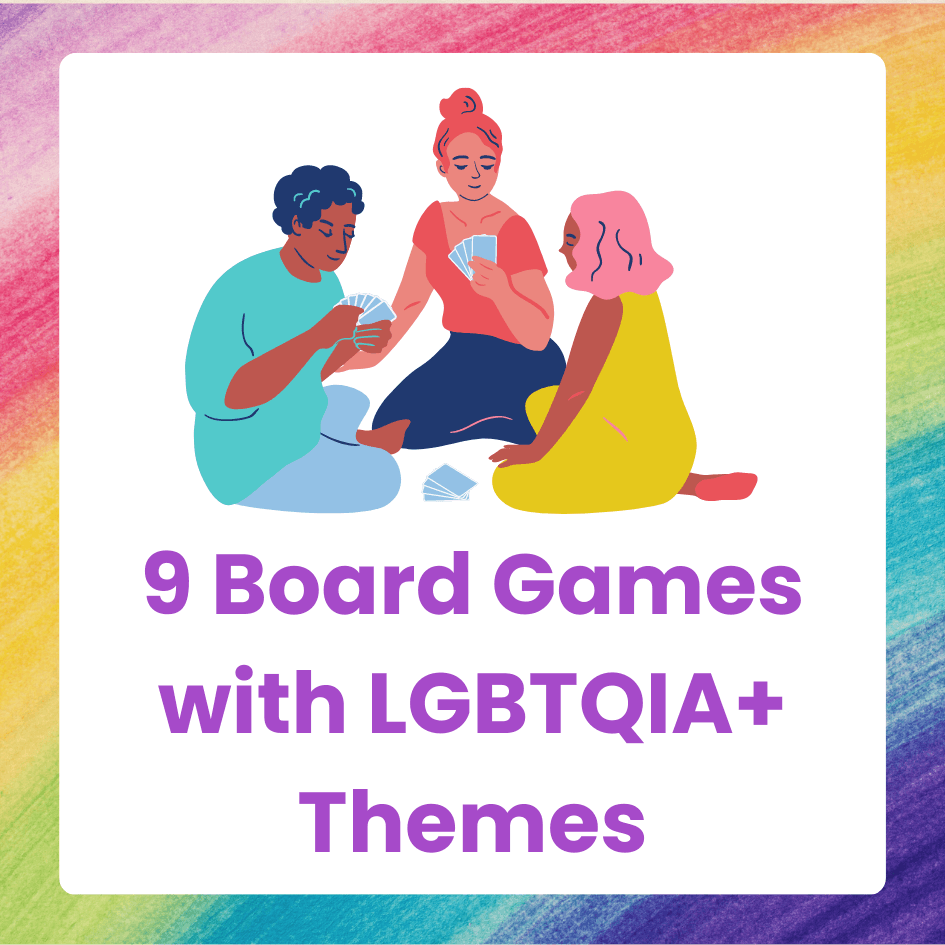
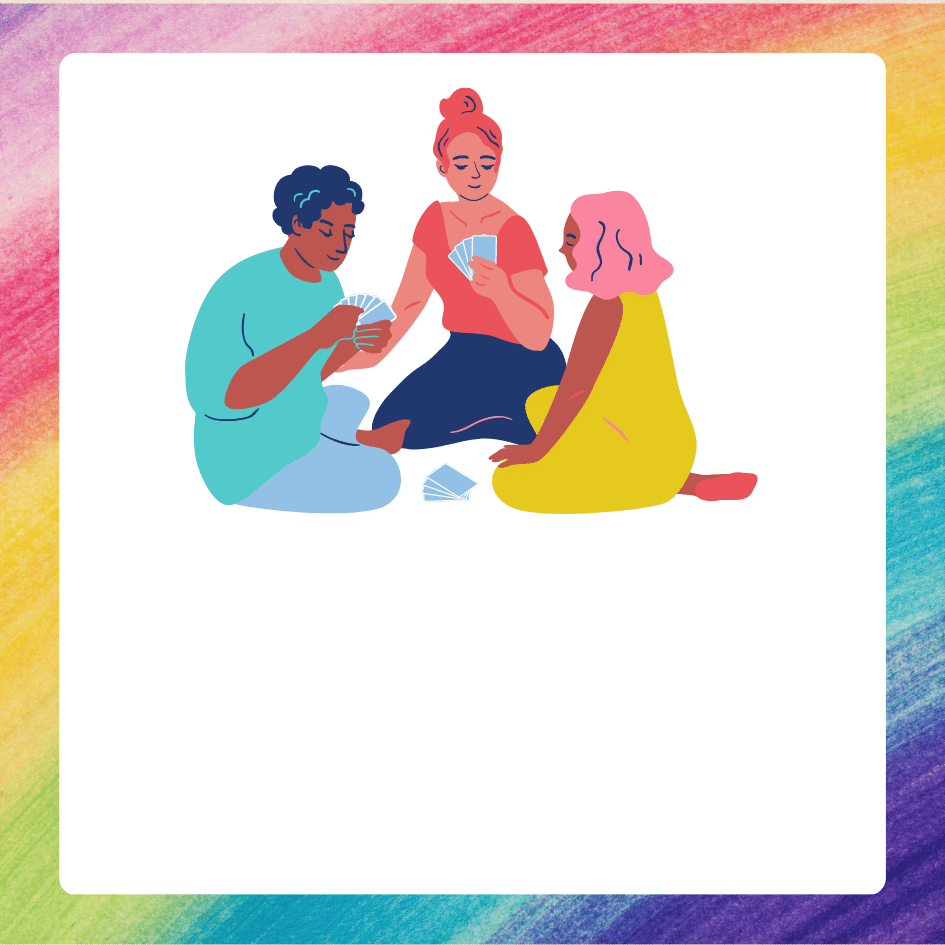
add screen-reader friendly text to article image

diff --git a/style.css b/style.css
@@ -103,17 +103,12 @@ h1 {
   border-radius: 0 4px 4px 0;
 }
 
-/* .grid-item-1 {
-  grid-area: secondary-nav;
-  background: #fff;
-  justify-content: center;
-} */
-
 .grid-item-2 {
   grid-area: article-1;
-  margin-right: -2.5px;
+  margin-right: -5px;
   max-width: 400px;
   height: auto;
+  border-radius: 4px;
 }
 
 .grid-item-3 {
@@ -175,6 +170,27 @@ h1 {
 a.article-text {
   text-decoration: none;
   color: #000;
+}
+
+.image-container {
+  position: relative;
+  text-align: center;
+  padding: 0;
+  margin: 0;
+}
+
+.main-article-text {
+  position: absolute;
+  bottom: 30px;
+  left: 70px;
+  padding: 0;
+  margin: 0;
+}
+
+p.main-article-text {
+  font-size: 32px;
+  font-weight: 900;
+  max-width: 260px;
 }
 
 /* NAVBAR SEARCH & DROPDOWN */
@@ -239,7 +255,6 @@ input:focus {
   color: #fff;
   background-color: var(--dark-orchid);
 }
-
 
 /* NAV */
 
@@ -333,7 +348,6 @@ nav .search-box {
 nav .search-box input {
   border: none;
   height: 100%;
-  -webkit-border-radius: 4px;
   border-radius: 4px;
   background: rgba(255, 255, 255, 0.2);
   color: #fff;
@@ -460,9 +474,9 @@ footer {
     border-radius: 0 0 4px 4px;
   }
 
-.grid-item {
-  max-width: 300px;
-}
+  .grid-item {
+    max-width: 300px;
+  }
 
   .grid-item-2,
   .grid-item-3,
@@ -481,6 +495,16 @@ footer {
     font-size: 17px;
     font-weight: 700;
     padding-left: 4px;
+  }
+
+  .main-article-text {
+    bottom: 26px;
+    left: 42px;
+  }
+  
+  p.main-article-text {
+    font-size: 22px;
+    max-width: 220px;
   }
 
   nav {
@@ -644,6 +668,16 @@ footer {
     font-size: 20px;
     font-weight: 700;
     padding-left: 6px;
+  }
+
+  .main-article-text {
+    bottom: 90px;
+    left: 60px;
+  }
+  
+  p.main-article-text {
+    font-size: 50px;
+    max-width: 580px;
   }
 
   nav {

diff --git a/index.html b/index.html
@@ -70,12 +70,14 @@
               <div class="secondary-nav-display">secondary nav display</div>
             </div>
 
-          <a href="#" class="grid-item grid-item-2">
-            <image
-              class="grid-item-2"
-              src="images/board-games-with-lgbt-themes.png"
-              alt="Drawing of three people playing cards, with caption '9 Board Games with LGBTQIA+ Themes'">
-            </image></a>
+            <a href="#" class="image-container grid-item grid-item-2">
+              <image
+                class="grid-item-2"
+                src="images/board-games-with-lgbt-themes.png"
+                alt="Drawing of three people playing cards, with caption '9 Board Games with LGBTIQ+ Themes'">
+              </image>
+              <p class="main-article-text">9 Board Games with LGBTIQ+ Themes</p>
+            </a>
 
             <div class="grid-item grid-item-3 article">
             <image
@@ -101,7 +103,7 @@
               src="images/anti-colonial-board-games-spirit-island.png"
               alt="Photo of the board game Spirit Island">
               </image>
-              <a href="#" class="article-text">9 Anti-Colonial Board Games</a>
+              <a href="#" class="article-text">7 Anti-Colonial Board Games</a>
           </div>
 
           <div class="grid-item grid-item-6 article">
